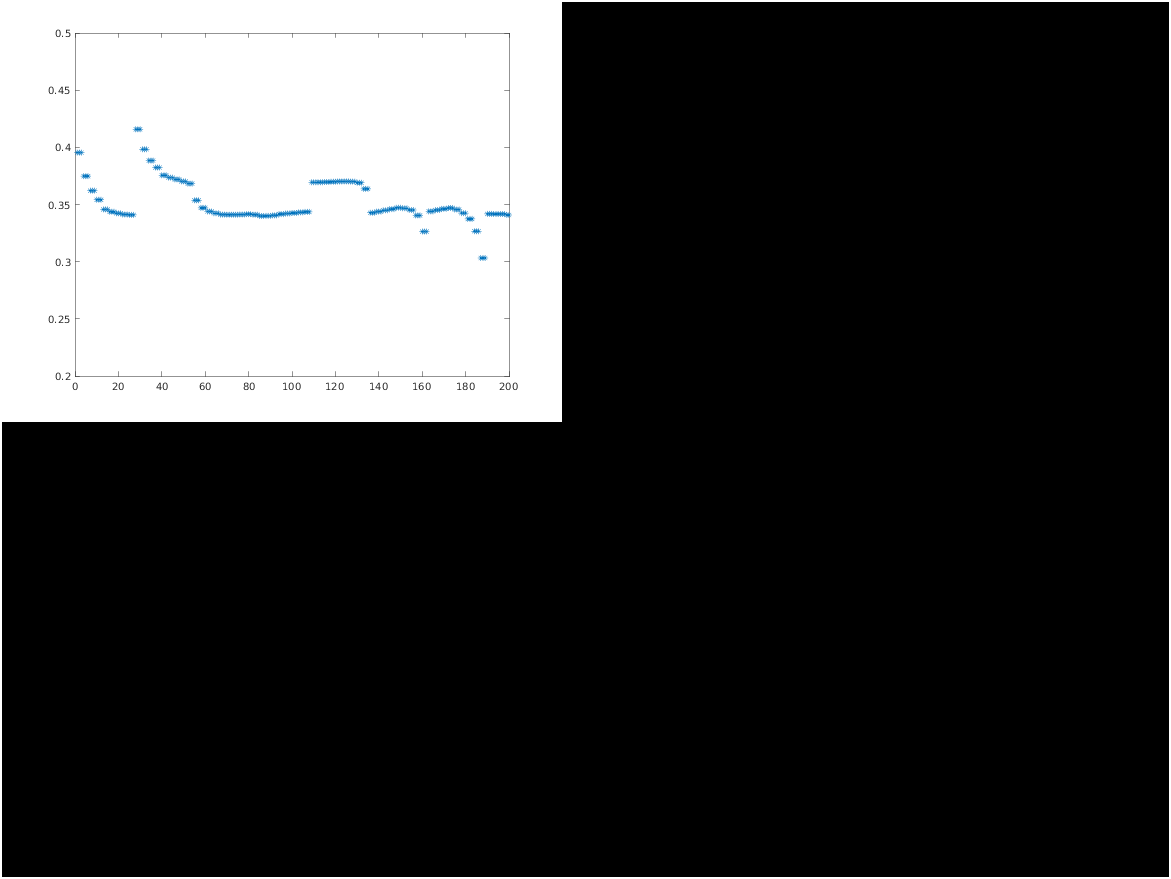
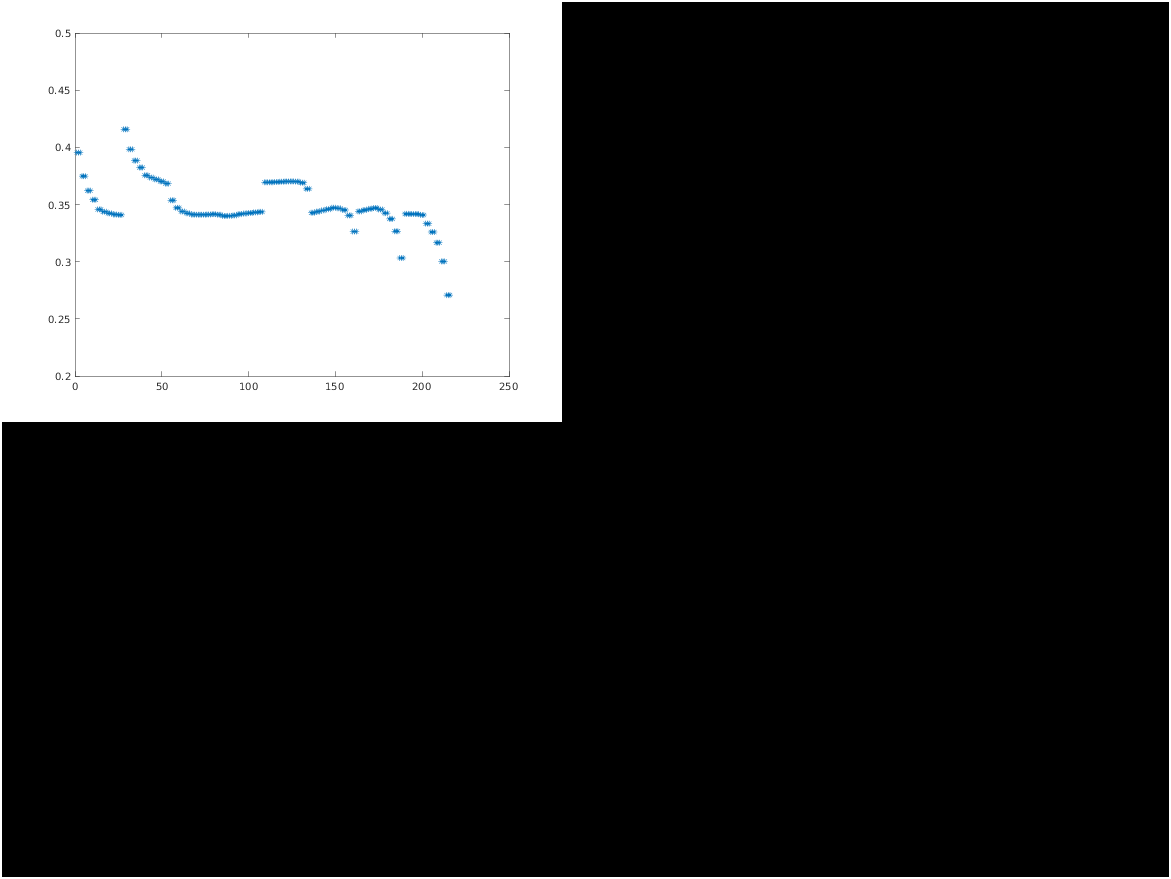
imgs

Changed region(s): [[0.1537, 0.1843, 0.3997, 0.2765], [0.0615, 0.215, 0.123, 0.2457], [0.123, 0.1843, 0.1537, 0.215]]

diff --git a/SE_Stokes_run/SE3P_Stokes/amp_param.m b/SE_Stokes_run/SE3P_Stokes/amp_param.m
@@ -31,7 +31,7 @@ for L = LL
     end
 end
 plot(1:length(MA),MA,'*')
-axis([0,200,0.2,0.5]);
+ylim([0.2,0.5]);
 exportgraphics(gcf,'error_amp.png');
 fclose(fileid);
 %disp(MA)
